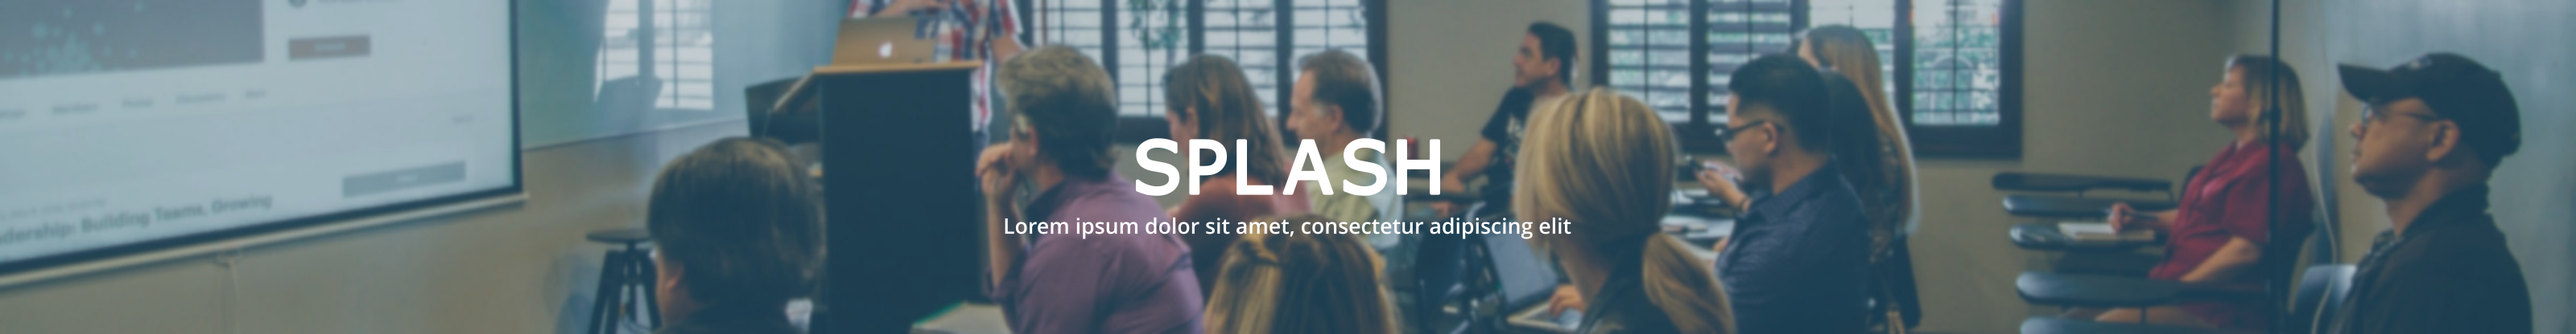
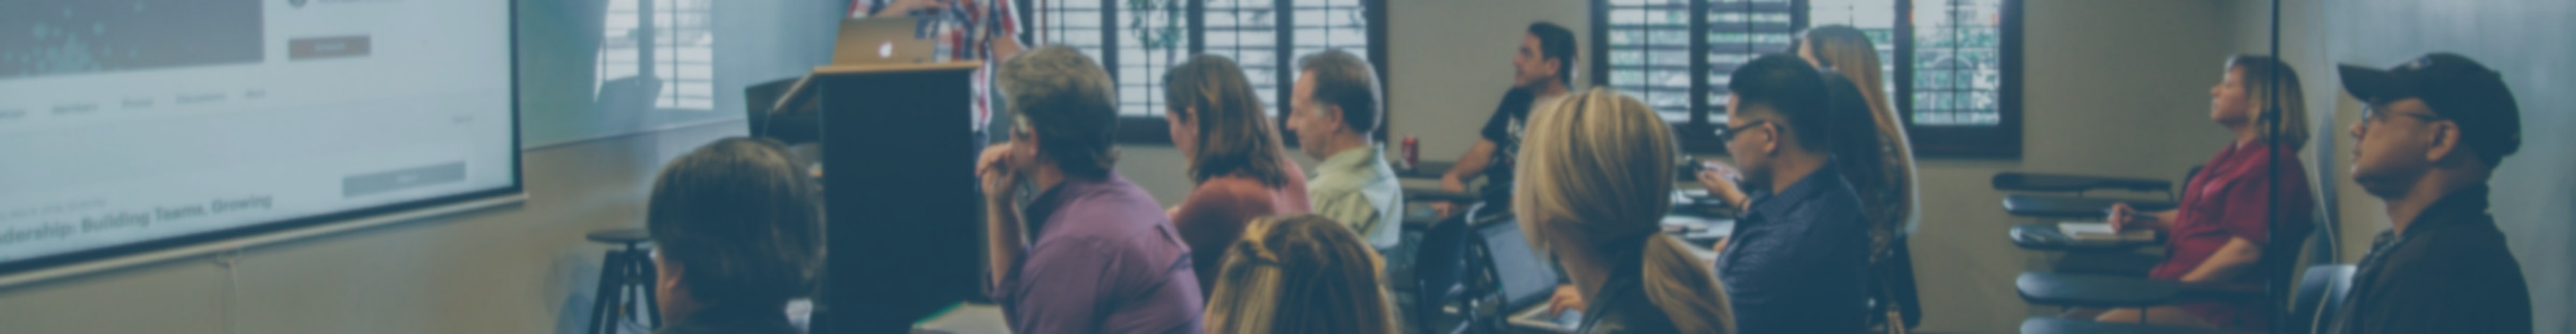
Improve homepage spacing

Changed region(s): [[0.4375, 0.4062, 0.5625, 0.5938], [0.375, 0.6562, 0.625, 0.7188]]

diff --git a/_includes/index/lifecycle.html b/_includes/index/lifecycle.html
@@ -1,4 +1,4 @@
-<div class="row justify-content-center mb-5">
+<div class="row row-bg-light justify-content-center mb-5">
     <div class="col-12 text-center">
         <svg class="lifecycle" version="1.1" viewBox="0 0 112.42 69.98" xml:space="preserve" xmlns="http://www.w3.org/2000/svg">
             <defs>
@@ -14,7 +14,7 @@
                 <path class="lifecycle-part-appear-4 lifecycle-part lifecycle-part-hidden" d="m1148.9 234.15q0 0.55949-0.2453 1.0142-0.2425 0.45475-0.6477 0.70556-0.2811 0.17363-0.6283 0.2508-0.3446 0.0772-0.9096 0.0772h-1.0362v-4.1038h1.0252q0.6008 0 0.9536 0.0882 0.3556 0.0854 0.6009 0.23702 0.4189 0.26183 0.6531 0.69729 0.2343 0.43546 0.2343 1.0335zm-0.5705-8e-3q0-0.48232-0.1681-0.81305-0.1681-0.33072-0.5016-0.52089-0.2426-0.13781-0.5154-0.19017-0.2729-0.0551-0.6532-0.0551h-0.5126v3.1667h0.5126q0.3941 0 0.6863-0.0579 0.2949-0.0579 0.5402-0.21498 0.3059-0.19568 0.4575-0.51538 0.1543-0.31971 0.1543-0.79926zm3.988 0.5705h-2.2682q0 0.28388 0.085 0.4961 0.085 0.20946 0.2343 0.34451 0.1433 0.13229 0.339 0.19843 0.1984 0.0661 0.4355 0.0661 0.3141 0 0.6311-0.12402 0.3197-0.12678 0.4547-0.24805h0.028v0.565q-0.2618 0.11024-0.5347 0.18465-0.2728 0.0744-0.5732 0.0744-0.7662 0-1.1962-0.41342-0.4299-0.41616-0.4299-1.1796 0-0.75517 0.4106-1.1989 0.4134-0.44373 1.0859-0.44373 0.6229 0 0.9591 0.36381 0.339 0.3638 0.339 1.0335zm-0.5043-0.39687q0-0.4079-0.2067-0.63114-0.2012-0.22324-0.6146-0.22324-0.4162 0-0.6642 0.24529-0.2453 0.24529-0.2784 0.60909zm1.8135 1.8824h-0.5182v-4.2884h0.5182zm1.582-3.5939h-0.5843v-0.53744h0.5843zm-0.033 3.5939h-0.5182v-3.0785h0.5182zm3.6876-3.0785-1.2457 3.0785h-0.5209l-1.2375-3.0785h0.5622l0.9536 2.4502 0.9454-2.4502zm3.2053 1.593h-2.2682q0 0.28388 0.085 0.4961 0.085 0.20946 0.2343 0.34451 0.1433 0.13229 0.339 0.19843 0.1984 0.0661 0.4354 0.0661 0.3142 0 0.6312-0.12402 0.3197-0.12678 0.4547-0.24805h0.028v0.565q-0.2618 0.11024-0.5347 0.18465-0.2728 0.0744-0.5732 0.0744-0.7662 0-1.1962-0.41342-0.4299-0.41616-0.4299-1.1796 0-0.75517 0.4106-1.1989 0.4134-0.44373 1.0859-0.44373 0.6229 0 0.9591 0.36381 0.339 0.3638 0.339 1.0335zm-0.5043-0.39687q0-0.4079-0.2067-0.63114-0.2012-0.22324-0.6146-0.22324-0.4162 0-0.6643 0.24529-0.2452 0.24529-0.2783 0.60909zm3.2108-0.63114h-0.028q-0.1157-0.0276-0.226-0.0386-0.1075-0.0138-0.2563-0.0138-0.2398 0-0.463 0.10749-0.2232 0.10473-0.4299 0.27285v2.1856h-0.5182v-3.0785h0.5182v0.45476q0.3086-0.24805 0.5429-0.35003 0.237-0.10473 0.4823-0.10473 0.1351 0 0.1957 8e-3 0.061 6e-3 0.1819 0.0248z" fill="#4F1C46" stroke="#4F1C46" stroke-width=".265" aria-label="Deliver" />
                 <path class="lifecycle-part-appear-5 lifecycle-part lifecycle-part-hidden" d="m1152.8 187.26h-2.7037v-4.1038h2.7037v0.48507h-2.158v1.1245h2.158v0.48507h-2.158v1.5241h2.158zm3.4864-3.0785-1.2457 3.0785h-0.5209l-1.2375-3.0785h0.5622l0.9536 2.4502 0.9454-2.4502zm2.96 3.0785h-0.5154v-0.32797q-0.069 0.0469-0.1874 0.13229-0.1157 0.0827-0.226 0.13229-0.1295 0.0634-0.2976 0.10473-0.1681 0.0441-0.3941 0.0441-0.4162 0-0.7056-0.27561-0.2894-0.2756-0.2894-0.7028 0-0.35002 0.1488-0.56499 0.1516-0.21773 0.43-0.34175 0.2811-0.12403 0.6752-0.16812 0.3941-0.0441 0.8461-0.0661v-0.0799q0-0.17639-0.063-0.29215-0.061-0.11575-0.1764-0.1819-0.1103-0.0634-0.2646-0.0854-0.1544-0.0221-0.3225-0.0221-0.2039 0-0.4547 0.0551-0.2508 0.0524-0.5182 0.15434h-0.028v-0.52641q0.1515-0.0413 0.4382-0.0909 0.2866-0.0496 0.565-0.0496 0.3252 0 0.565 0.0551 0.2425 0.0524 0.4189 0.1819 0.1736 0.12678 0.2646 0.32798 0.091 0.20119 0.091 0.49884zm-0.5154-0.75792v-0.85714q-0.237 0.0138-0.5594 0.0413-0.3197 0.0276-0.5072 0.0799-0.2232 0.0634-0.361 0.19844-0.1378 0.13229-0.1378 0.36656 0 0.26458 0.1598 0.39963 0.1599 0.13229 0.4879 0.13229 0.2728 0 0.4988-0.10473 0.226-0.10749 0.4189-0.25632zm2.0368 0.75792h-0.5182v-4.2884h0.5182zm3.5774 0h-0.5182v-0.34175q-0.2618 0.2067-0.5016 0.31694-0.2398 0.11025-0.5291 0.11025-0.4851 0-0.7552-0.2949-0.2701-0.29766-0.2701-0.87092v-1.9982h0.5181v1.7529q0 0.23426 0.022 0.40238 0.022 0.16537 0.094 0.28388 0.074 0.12127 0.1929 0.17639 0.1185 0.0551 0.3445 0.0551 0.2012 0 0.4382-0.10473 0.2398-0.10473 0.4465-0.26734v-2.2986h0.5182zm3.412 0h-0.5154v-0.32797q-0.069 0.0469-0.1874 0.13229-0.1158 0.0827-0.226 0.13229-0.1295 0.0634-0.2977 0.10473-0.1681 0.0441-0.3941 0.0441-0.4162 0-0.7055-0.27561-0.2894-0.2756-0.2894-0.7028 0-0.35002 0.1488-0.56499 0.1516-0.21773 0.4299-0.34175 0.2812-0.12403 0.6753-0.16812 0.3941-0.0441 0.8461-0.0661v-0.0799q0-0.17639-0.063-0.29215-0.061-0.11575-0.1764-0.1819-0.1102-0.0634-0.2646-0.0854-0.1543-0.0221-0.3224-0.0221-0.204 0-0.4548 0.0551-0.2508 0.0524-0.5181 0.15434h-0.028v-0.52641q0.1516-0.0413 0.4382-0.0909 0.2867-0.0496 0.565-0.0496 0.3252 0 0.565 0.0551 0.2426 0.0524 0.419 0.1819 0.1736 0.12678 0.2645 0.32798 0.091 0.20119 0.091 0.49884zm-0.5154-0.75792v-0.85714q-0.237 0.0138-0.5595 0.0413-0.3197 0.0276-0.5071 0.0799-0.2232 0.0634-0.361 0.19844-0.1379 0.13229-0.1379 0.36656 0 0.26458 0.1599 0.39963 0.1599 0.13229 0.4878 0.13229 0.2729 0 0.4989-0.10473 0.226-0.10749 0.4189-0.25632zm3.1116 0.73036q-0.1461 0.0386-0.3197 0.0634-0.1709 0.0248-0.3059 0.0248-0.4713 0-0.7166-0.25356t-0.2453-0.81304v-1.6371h-0.35v-0.43546h0.35v-0.8847h0.5182v0.8847h1.0693v0.43546h-1.0693v1.4028q0 0.24254 0.011 0.38034 0.011 0.13505 0.077 0.25356 0.061 0.11024 0.1654 0.16261 0.1075 0.0496 0.3252 0.0496 0.1268 0 0.2646-0.0358 0.1378-0.0386 0.1984-0.0634h0.028zm3.2026-1.458h-2.2683q0 0.28387 0.086 0.49609 0.085 0.20946 0.2342 0.34451 0.1433 0.13229 0.339 0.19844 0.1985 0.0661 0.4355 0.0661 0.3142 0 0.6311-0.12403 0.3197-0.12678 0.4548-0.24804h0.027v0.56499q-0.2618 0.11024-0.5346 0.18466-0.2729 0.0744-0.5733 0.0744-0.7662 0-1.1961-0.41341-0.43-0.41617-0.43-1.1796 0-0.75517 0.4107-1.1989 0.4134-0.44372 1.0859-0.44372 0.6228 0 0.9591 0.3638 0.339 0.3638 0.339 1.0335zm-0.5044-0.39688q0-0.4079-0.2067-0.63114-0.2012-0.22324-0.6146-0.22324-0.4162 0-0.6642 0.24529-0.2453 0.24529-0.2784 0.60909z" fill="#cc1e58" stroke="#CA1551" stroke-width=".265" aria-label="Evaluate" />
                 <a href="/deliver">
-                    <g class="lifecycle-part-appear-4 lifecycle-part lifecycle-part-hidden" transform="matrix(1.1935 0 0 1.1935 -219.99 95.978)" stroke="#fff">
+                    <g class="lifecycle-part-appear-4 lifecycle-part lifecycle-part-hidden" transform="matrix(1.1935 0 0 1.1935 -219.99 95.978)" stroke="#f8f9fa">
                         <path class="lifecycle-part-circle" d="m1180.9 107.56a10.176 10.176 2.1861 0 1-10.557 9.7806 10.176 10.176 2.1861 0 1-9.7806-10.557 10.176 10.176 2.1861 0 1 10.557-9.7806 10.176 10.176 2.1861 0 1 9.7805 10.557z" fill="#4F1C46" stroke-linecap="round" stroke-linejoin="round" stroke-width=".59342" />
                         <g transform="matrix(.28594 0 0 .28594 1064 -7.4414)" fill="none">
                             <path transform="rotate(90)" d="m392.5-388.5h19.766c1.1605 0 2.0948 0.93427 2.0948 2.0948v26.774c0 1.1605-0.93426 2.0948-2.0948 2.0948h-19.766c-1.1605 0-2.0948-0.93427-2.0948-2.0948v-26.774c0-1.1605 0.93426-2.0948 2.0948-2.0948z" stroke-width="1.8" />
@@ -29,7 +29,7 @@
                     </g>
                 </a>
                 <a href="/design">
-                    <g class="lifecycle-part-appear-2 lifecycle-part lifecycle-part-hidden" transform="matrix(1.1935 0 0 1.1935 -249.68 98.735)" stroke="#fff">
+                    <g class="lifecycle-part-appear-2 lifecycle-part lifecycle-part-hidden" transform="matrix(1.1935 0 0 1.1935 -249.68 98.735)" stroke="#f8f9fa">
                         <path class="lifecycle-part-circle" d="m1247.1 105.26a10.176 10.176 2.1861 0 1-10.557 9.7806 10.176 10.176 2.1861 0 1-9.7806-10.557 10.176 10.176 2.1861 0 1 10.557-9.7806 10.176 10.176 2.1861 0 1 9.7805 10.557z" fill="#FF7900" stroke-linecap="round" stroke-linejoin="round" stroke-width=".59342" />
                         <path d="m1241.8 101.67v6.211c0 0.36466-0.2935 0.65823-0.6582 0.65823h-8.4129c-0.3647 0-0.6583-0.29357-0.6583-0.65823v-6.211c0-0.36466 0.2936-0.65823 0.6583-0.65823h8.4129c0.3647 0 0.6582 0.29357 0.6582 0.65823z" fill="none" stroke-width=".56561" />
                         <path d="m1242.5 108.22v0.41731c0 0.0477-0.038 0.0861-0.086 0.0861h-11.03c-0.048 0-0.086-0.0384-0.086-0.0861v-0.41731c0-0.0477 0.038-0.0861 0.086-0.0861h11.03c0.048 0 0.086 0.0384 0.086 0.0861z" fill="#fff" stop-color="#000000" stroke-width=".4327" />
@@ -41,7 +41,7 @@
                     </g>
                 </a>
                 <a href="/develop">
-                    <g class="lifecycle-part-appear-3 lifecycle-part lifecycle-part-hidden" transform="matrix(1.1935 0 0 1.1935 -235.48 86.187)" stroke="#fff">
+                    <g class="lifecycle-part-appear-3 lifecycle-part lifecycle-part-hidden" transform="matrix(1.1935 0 0 1.1935 -235.48 86.187)" stroke="#f8f9fa">
                         <path class="lifecycle-part-circle" d="m1214.6 129.53a10.176 10.176 2.1861 0 1-10.557 9.7806 10.176 10.176 2.1861 0 1-9.7806-10.557 10.176 10.176 2.1861 0 1 10.557-9.7806 10.176 10.176 2.1861 0 1 9.7806 10.557z" fill="#03CEA4" stroke-linecap="round" stroke-linejoin="round" stroke-width=".59342" />
                         <g transform="matrix(.31423 0 0 .31423 1087.2 15.768)">
                             <path transform="rotate(90)" d="m350.63-388.5h19.766c1.1605 0 2.0948 0.93427 2.0948 2.0948v26.774c0 1.1605-0.93427 2.0948-2.0948 2.0948h-19.766c-1.1605 0-2.0948-0.93427-2.0948-2.0948v-26.774c0-1.1605 0.93426-2.0948 2.0948-2.0948z" fill="none" stroke-width="1.8" />
@@ -51,7 +51,7 @@
                     </g>
                 </a>
                 <a href="/evaluate">
-                    <g class="lifecycle-part-appear-5 lifecycle-part lifecycle-part-hidden" transform="matrix(1.1935 0 0 1.1935 -225.16 116.29)" stroke="#fff">
+                    <g class="lifecycle-part-appear-5 lifecycle-part lifecycle-part-hidden" transform="matrix(1.1935 0 0 1.1935 -225.16 116.29)" stroke="#f8f9fa">
                         <path class="lifecycle-part-circle" d="m1192.7 66.62a10.176 10.176 2.1861 0 1-10.557 9.7806 10.176 10.176 2.1861 0 1-9.7806-10.557 10.176 10.176 2.1861 0 1 10.557-9.7806 10.176 10.176 2.1861 0 1 9.7806 10.557z" fill="#CA1551" stroke-linecap="round" stroke-linejoin="round" stroke-width=".59342" />
                         <g transform="matrix(.31329 0 0 .31329 1078.2 -48.001)" fill="none">
                             <path d="m323.02 349.14h19.766c1.1605 0 2.0948 0.93426 2.0948 2.0948v26.774c0 1.1605-0.93426 2.0948-2.0948 2.0948h-19.766c-1.1605 0-2.0948-0.93426-2.0948-2.0948v-26.774c0-1.1605 0.93426-2.0948 2.0948-2.0948z" stroke-width="1.8" />
@@ -65,7 +65,7 @@
                     </g>
                 </a>
                 <a href="/plan">
-                    <g class="lifecycle-part-appear-1 lifecycle-part lifecycle-part-hidden" transform="matrix(1.1936 0 0 1.1936 -242.43 116.59)" stroke="#fff">
+                    <g class="lifecycle-part-appear-1 lifecycle-part lifecycle-part-hidden" transform="matrix(1.1936 0 0 1.1936 -242.43 116.59)" stroke="#f8f9fa">
                         <path class="lifecycle-part-circle" d="m1233.6 66.374a10.176 10.176 0 0 1-10.557 9.7806 10.176 10.176 0 0 1-9.7806-10.557 10.176 10.176 0 0 1 10.557-9.7806 10.176 10.176 0 0 1 9.7805 10.557z" fill="#005472" stroke-linecap="round" stroke-linejoin="round" stroke-width=".59342" />
                         <g transform="matrix(.31329 0 0 .31329 1129.8 -48.247)">
                             <path d="m288.85 349.14h19.766c1.1605 0 2.0948 0.93426 2.0948 2.0948v26.774c0 1.1605-0.93426 2.0948-2.0948 2.0948h-19.766c-1.1605 0-2.0948-0.93426-2.0948-2.0948v-26.774c0-1.1605 0.93426-2.0948 2.0948-2.0948z" fill="none" stroke-width="1.8" />
@@ -81,12 +81,18 @@
 </div>
 <script type="text/javascript">
     jQuery(function($) {
-        const appearDealy = 500;
+        $('.lifecycle').inViewport(function (px) {
+            if (px > 0 && !this.initAppear) {
+                this.initAppear = true;
 
-        for (let i = 0; i < 5; i++) {
-            setTimeout(() => {    
-                $(`.lifecycle-part-appear-${i + 1}`).attr('class', 'lifecycle-part')
-            }, appearDealy * i)  
-        }
+                const appearDealy = 400;
+
+                for (let i = 0; i < 5; i++) {
+                    setTimeout(function() {    
+                        $(`.lifecycle-part-appear-${i + 1}`).attr('class', 'lifecycle-part')
+                    }, appearDealy * i)
+                }
+            }
+        })
     })
 </script>

diff --git a/_includes/index/splash-in-numbers.html b/_includes/index/splash-in-numbers.html
@@ -22,25 +22,8 @@
     /** 
      * Animate numbers when in viewport
      */
-
-    // inViewport jQuery plugin
-    // https://stackoverflow.com/a/26831113/383904
-    $(function ($, win) {
-        $.fn.inViewport = function (cb) {
-            return this.each(function (i, el) {
-                function visPx() {
-                    var H = $(this).height(),
-                        r = el.getBoundingClientRect(), t = r.top, b = r.bottom;
-                    return cb.call(el, Math.max(0, t > 0 ? H - t : (b < H ? b : H)));
-                } visPx();
-                $(win).on("resize scroll", visPx);
-            });
-        };
-    }(jQuery, window));
-
-
     jQuery(function ($) { // DOM ready and $ in scope
-        $(".count-number").inViewport(function (px) { // Make use of the `px` argument!!!
+        $('.count-number').inViewport(function (px) { // Make use of the `px` argument!!!
             if (px > 0 && !this.initNumAnim) {
                 this.initNumAnim = true; // Set flag to true to prevent re-running the same animation
                 $(this).prop('Counter', 0).animate({

diff --git a/_sass/_custom_classes.scss b/_sass/_custom_classes.scss
@@ -22,6 +22,7 @@ header {
         right: 0;
         left: 0;
         z-index: 1030;
+        padding-top: 1rem;
 
         .navbar-brand {
             min-height: 54px;
@@ -84,6 +85,44 @@ footer {
 
 .bg-red {
     background: $red;
+}
+
+.row-banner {
+    padding-top: 4rem;
+    padding-bottom: 4rem;
+    position: relative;
+
+    &::after {
+        content: ' ';
+        position: absolute;
+        top: 0;
+        left: 50%;
+        transform: translate(-50%);
+        height: 100%;
+        width: 100vw;
+        background: url('/assets/img/banner.png') center center no-repeat;
+        background-color: $gray-800;
+        background-size: cover;
+        z-index: -1;
+    }
+}
+
+.row-bg-light {
+    padding-top: 4rem;
+    padding-bottom: 4rem;
+    position: relative;
+
+    &::after {
+        content: ' ';
+        position: absolute;
+        top: 0;
+        left: 50%;
+        transform: translate(-50%);
+        height: 100%;
+        width: 100vw;
+        background-color: $gray-100;
+        z-index: -1;
+    }
 }
 
 .count {

diff --git a/_includes/index/welcome.html b/_includes/index/welcome.html
@@ -1,6 +1,17 @@
-<div class="row justify-content-center mb-5">
+<div class="row row-banner justify-content-center mb-5">
     <div class="col-12 text-center">
-        <img src="assets/img/banner.png" alt="banner">
+        <div class="display-4 text-white fw-bold">SPLASH</div>
+        <p class="lead text-white mb-0">
+            Lorem ipsum dolor sit amet, consectetur adipiscing elit
+        </p>
     </div>
-    
+</div>
+<div class="row mb-5">
+    <div class="col-12">
+        <div class="px-3 py-5 text-center">
+            <p class="lead">
+                Lorem ipsum dolor sit amet, consectetur adipiscing elit. Fusce scelerisque augue tempus magna suscipit fringilla. Quisque neque nunc, fringilla a elit sed, tempor facilisis velit. Nulla facilisi. Sed ut sapien venenatis, tincidunt orci vitae, tristique magna. Curabitur tincidunt commodo odio vel faucibus.
+            </p>
+        </div>
+    </div>
 </div>

diff --git a/_includes/scripts.html b/_includes/scripts.html
@@ -1,0 +1,16 @@
+<script>
+    // inViewport jQuery plugin
+    // https://stackoverflow.com/a/26831113/383904
+    $(function ($, win) {
+        $.fn.inViewport = function (cb) {
+            return this.each(function (i, el) {
+                function visPx() {
+                    var H = $(this).height(),
+                        r = el.getBoundingClientRect(), t = r.top, b = r.bottom;
+                    return cb.call(el, Math.max(0, t > 0 ? H - t : (b < H ? b : H)));
+                } visPx();
+                $(win).on('resize scroll', visPx);
+            });
+        };
+    }(jQuery, window));
+</script>

diff --git a/index.md b/index.md
@@ -5,6 +5,8 @@ layout: default
 sidebar: false
 ---
 
+{% include scripts.html %}
+
 {% include index/welcome.html %}
 
 {% include index/lifecycle.html %}
